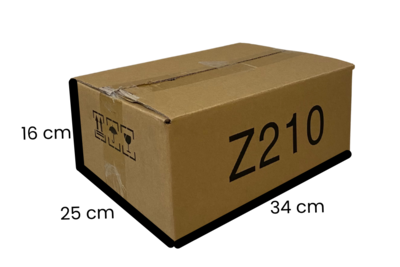
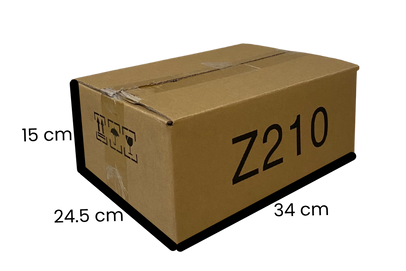
Add files via upload

diff --git a/css/style.css b/css/style.css
@@ -1249,16 +1249,16 @@ img, .logo, .logo-container, .center-logo, .card-img-top, iframe {
     --radius: 150px; /* ⬅ REDUCIDO: Distancia del centro de la esfera al logo */
     --angle: calc((var(--i) - 1) * (360deg / var(--total))); 
     
-    /* Mantenemos el tamaño grande del círculo (160px) */
-    width: 160px; 
-    height: 160px; 
+    /* Mantenemos el tamaño grande del círculo  */
+    width: 220px; 
+    height: 220px; 
 
     /* Posicionamiento 3D */
     position: absolute;
     top: 50%;
     left: 50%;
-    margin-top: calc(-160px / 2); /* Centra verticalmente */
-    margin-left: calc(-160px / 2); /* Centra horizontalmente */
+    margin-top: calc(-220px / 2); /* Centra verticalmente */
+    margin-left: calc(-220px / 2); /* Centra horizontalmente */
     
     /* La transformación clave: Rota el logo a su posición y lo empuja hacia afuera */
     transform: 
